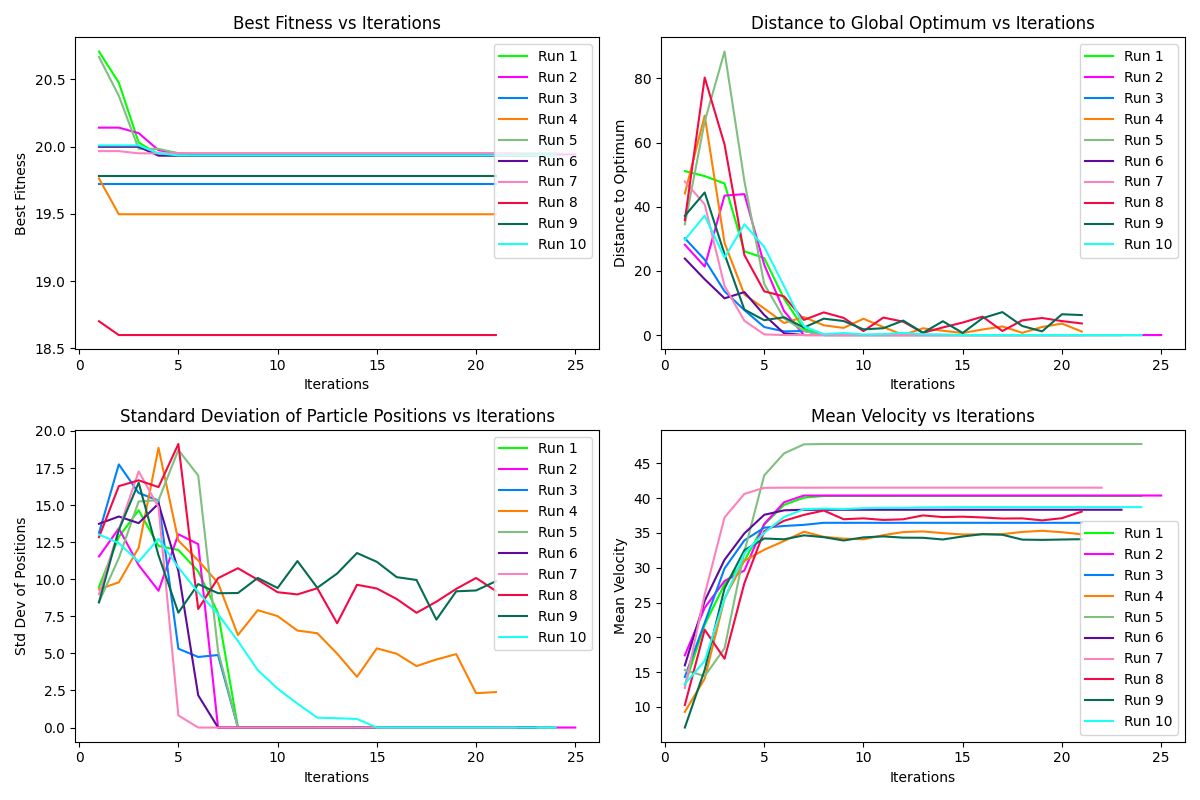
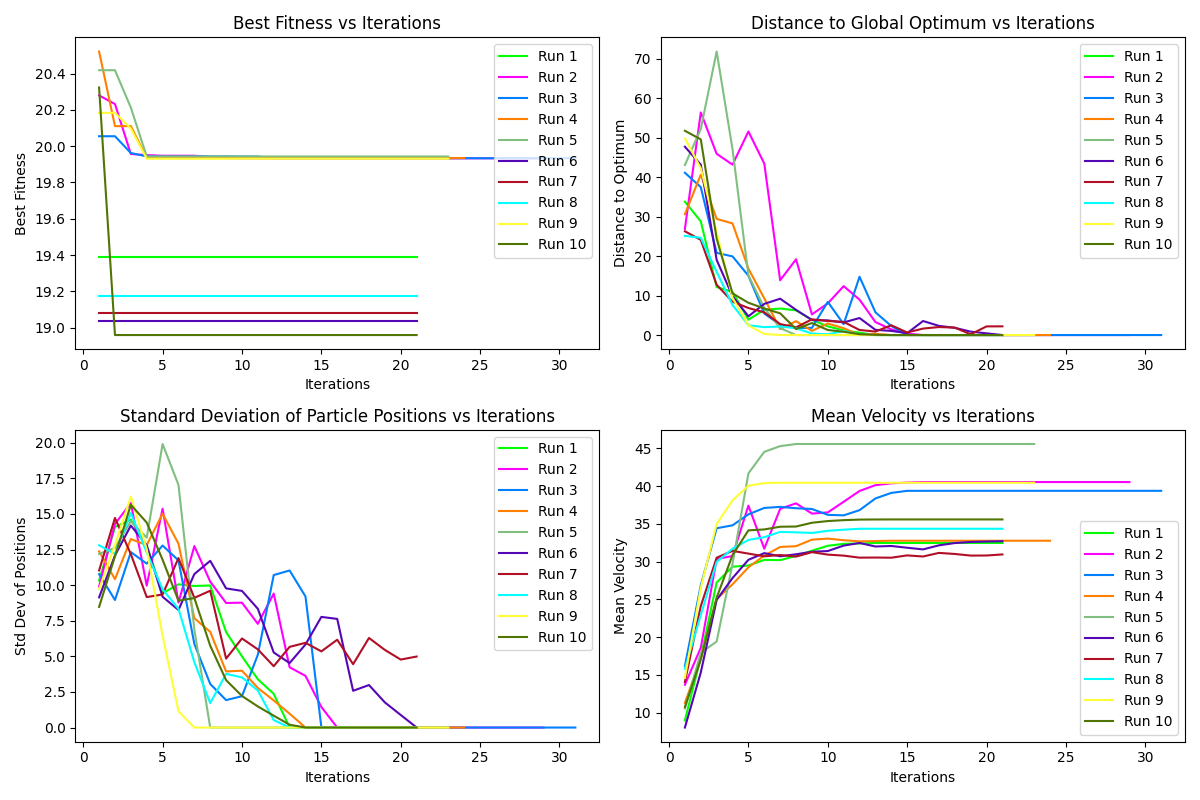
generated graphs

diff --git a/run_experiments.py b/run_experiments.py
@@ -50,14 +50,14 @@ def run_experiment(swarm_size, num_runs=10, pso_type="standard", topology_type="
     plt.close()
 
 
-run_experiment(5,num_runs=1,file_name="metrics_std_pso.png")
+#run_experiment(100,num_runs=1,file_name="metrics_std_pso.png",topology_type="gbest")
 
 # part6
-#run_experiment(30, file_name="metrics_std_pso.png")
+run_experiment(30, file_name="metrics_std_pso.png")
 # run_experiment(30, pso_type="inertia",
 #                file_name="metrics_std_pso_weight_adjust.png")
 
-"""
+
 # # part7
 run_experiment(20, file_name="metrics_std_pso_swarm20.png")
 run_experiment(100, file_name="metrics_std_pso_swarm100.png")
@@ -128,4 +128,3 @@ run_experiment(200, topology_type="rand", pso_type="inertia",
 # # try 200 rand standard
 run_experiment(200, topology_type="rand",
                 file_name="metrics_std_pso_topo_rand_swarm200.png")
-"""
